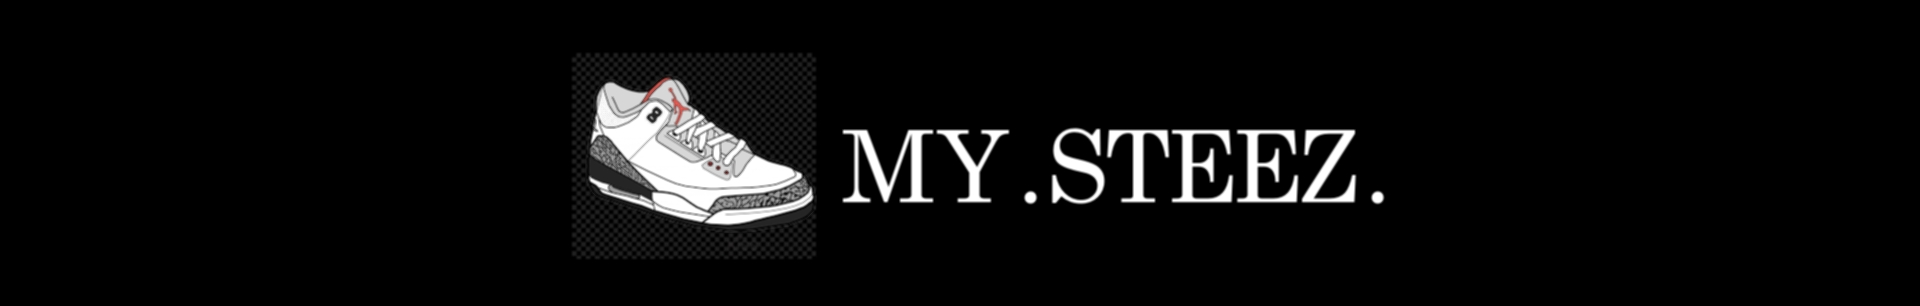
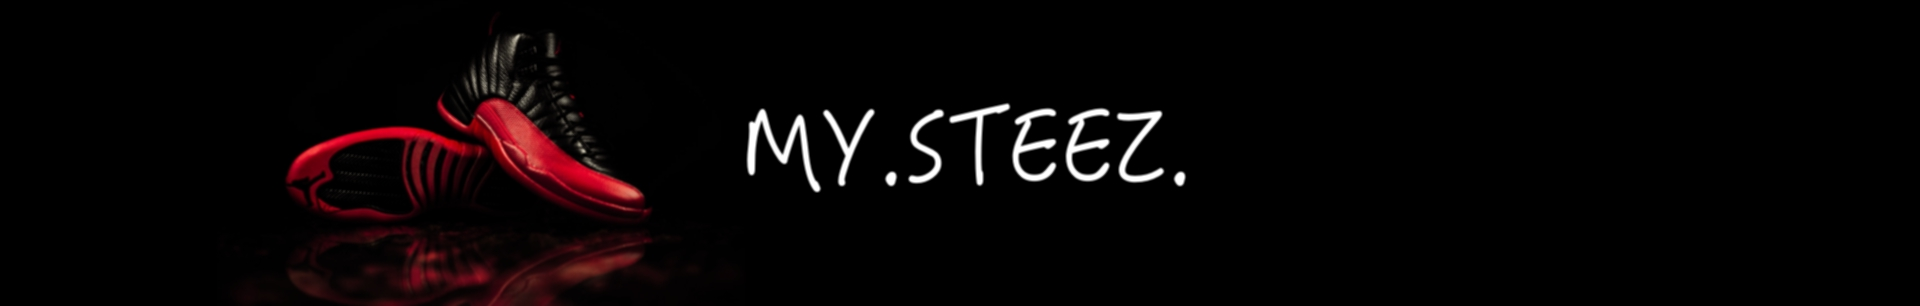
MIDDLE OF AUTH, EVERYTHING COMMENTED OUT FOR CHECKIN

Changed region(s): [[0.125, 0.1176, 0.7188, 1.0]]

diff --git a/src/App.css b/src/App.css
@@ -84,7 +84,7 @@
   font-size: 13px;
   margin: 4px 10px;
   transition-duration: 0.4s;
-  cursor: pointer;
+  cursor: crosshair;
 }
 
 /* product image */
@@ -105,7 +105,7 @@
 .product-delete {
   float: right;
   font-size: 30%;
-  cursor: pointer;
+  cursor: crosshair;
 }
 
 .product-delete:hover {
@@ -123,7 +123,7 @@
   font-size: 16px;
   margin: 4px 2px;
   transition-duration: 0.4s;
-  cursor: pointer;
+  cursor: crosshair;
 }
 
 .add-to-fit-button {
@@ -157,6 +157,30 @@
   align-content: space-between;
 }
 
+
+/* ********************************************        PRODUCT SHOW PAGE CSS **************************************** */
+.product-show {
+  text-align: center;
+  font-family: Plain;
+  font-size: 13px;
+  font-weight: 500;
+  font-style: normal;
+  font-stretch: normal;
+  line-height: normal;
+  letter-spacing: 1.5px;
+  text-transform: uppercase;
+  color: rgb(119, 119, 119);
+}
+
+.show-img {
+  width: 40%;
+}
+
+.show-desc {
+  padding: 20px;
+}
+
+
 /* ERROR PAGE */
 
 .error-page {
@@ -167,11 +191,13 @@
 /* HOME PAGE BANNERS */
 
 .home-banner {
-  position:relative;
-  z-index:-1;
-  display:block;
-  height:200px; width:auto;
   width: 100%;
+  position: relative;
   height: 250px;
-  background: -webkit-gradient(linear, left top, left bottom, color-stop(0%,rgba(0,0,0,0.65)), color-stop(100%,rgba(0,0,0,0)));
+  cursor: crosshair;
+}
+
+.home-banner:hover {
+  webkit-filter: blur(4px);
+  filter: blur(4px);
 }

diff --git a/src/Components/RegisterForm.js b/src/Components/RegisterForm.js
@@ -1,15 +1,45 @@
 import React, { Component } from 'react';
 import { Link } from 'react-router-dom';
+import { connect } from 'react-redux';
+import { userPostFetch } from '../Redux/actions/RegisterActions'
 
 class RegisterForm extends Component {
+
+  state = {
+    username: '',
+    password: ''
+  }
+
+  handleChange = (e) => {
+    console.log(e.target.value)
+    this.setState({
+      [e.target.name]: e.target.value
+    })
+  }
+
+  handleSubmit = (e) => {
+    e.preventDefault()
+    this.props.userPostFetch(this.state)
+    // include the fetch function here imported from action file
+  }
+
   render() {
     return (
       <div className="register-div">
         <h3>RegisterPage</h3>
+        <form onSubmit={this.handleSubmit}>
+          <label>Username: </label>
+          <input name='username' value={this.state.username} onChange={this.handleChange} />
+          <br/>
+          <label>Password: </label>
+          <input name='password' value={this.state.password} onChange={this.handleChange} />
+          <br/>
+          <input type="submit" />
+        </form>
         Already have account? <Link to='login'>Login here</Link>
       </div>
     )
   }
 }
 
-export default RegisterForm;
+export default connect(null, {userPostFetch} )(RegisterForm);

diff --git a/src/Containers/MySteez.js b/src/Containers/MySteez.js
@@ -1,18 +1,25 @@
 import React from 'react'
 import ProductList from '../Components/ProductList'
+import SteezList from '../Components/SteezList'
 
 import { Link } from 'react-router-dom'
 
 class MySteez extends React.Component {
     render() {
         return (
-            <div>
-                <h1 className="product-header"> My Products </h1>
-                <Link to="/add-product">
-                <button className="product-add-button" >Add To My Products</button>
-                </Link>
-                <ProductList />
-                {/* SteezList will go here */}
+            <div>      
+                <div>
+                    <h1 className="product-header"> My Products </h1>
+                    <Link to="/add-product">
+                    <button className="product-add-button" >Add To My Products</button>
+                    </Link>
+                    <ProductList />
+                </div>
+                <div>
+                    <h1 className="product-header"> My Fits</h1>
+                    <button className="product-add-button" >+</button>
+                    <SteezList />
+                </div>
             </div>
         )
     }

diff --git a/src/Containers/Home.js b/src/Containers/Home.js
@@ -1,13 +1,12 @@
 // home view is essentially a container that holds NavBar and SteezContainer
 import React from 'react'
-import SteezContainer from './SteezContainer'
 import { Link } from 'react-router-dom'
 
 class Home extends React.Component {
     render(){
         return (
             <div>
-                <br /><br/><br/><br/><br /><br/><br/><br/>
+                <br /><br/><br/><br/>
                 <Link to="/mysteez">
                 <img src={require("../Photos/mysteez.jpg")} alt="MY.STEEZ" className="home-banner" />
                 </Link>

diff --git a/src/Components/ProductShow.js b/src/Components/ProductShow.js
@@ -11,9 +11,11 @@ componentDidMount(){
 
     render() {
         return (
-            <div>
-                <h1>PRODUCT SHOW</h1>
-                <p></p>
+            <div className="product-show">
+                <h1>{this.props.product.name}</h1>
+                <br/>
+                <img className="show-img" src={this.props.product.img_url} alt=""/>
+                <p className="show-desc">{this.props.product.description}</p>
             </div>
         )
     }

diff --git a/src/Redux/reducers/ProductReducer.js b/src/Redux/reducers/ProductReducer.js
@@ -12,7 +12,7 @@ const productReducer = (state = initialState, action) => {
             return {...state, current: action.payload};
         case "ADD_PRODUCT":
             let newProduct = action.payload 
-            let addedArray = [ newProduct ,...state.products]
+            let addedArray = [...state.products, newProduct]
             return {...state, products: addedArray}
         case "DELETE_PRODUCT":
             let id = action.payload.id

diff --git a/src/Components/SteezList.js b/src/Components/SteezList.js
@@ -1,0 +1,16 @@
+import React from 'react'
+import { connect } from 'react-redux'
+
+class SteezList extends React.Component {
+    render(){
+        return (
+            <div>
+                <ul>
+                    {}
+                </ul>
+            </div>
+        )
+    }
+}
+
+export default SteezList;

diff --git a/src/App.js b/src/App.js
@@ -1,7 +1,6 @@
 import React from 'react';
 import './App.css';
 import { BrowserRouter, Route, Switch } from 'react-router-dom'
-// import Home from './Containers/Home'
 import Error from './Components/Error'
 import LoginForm from './Components/LoginForm'
 import MySteez from './Containers/MySteez'
